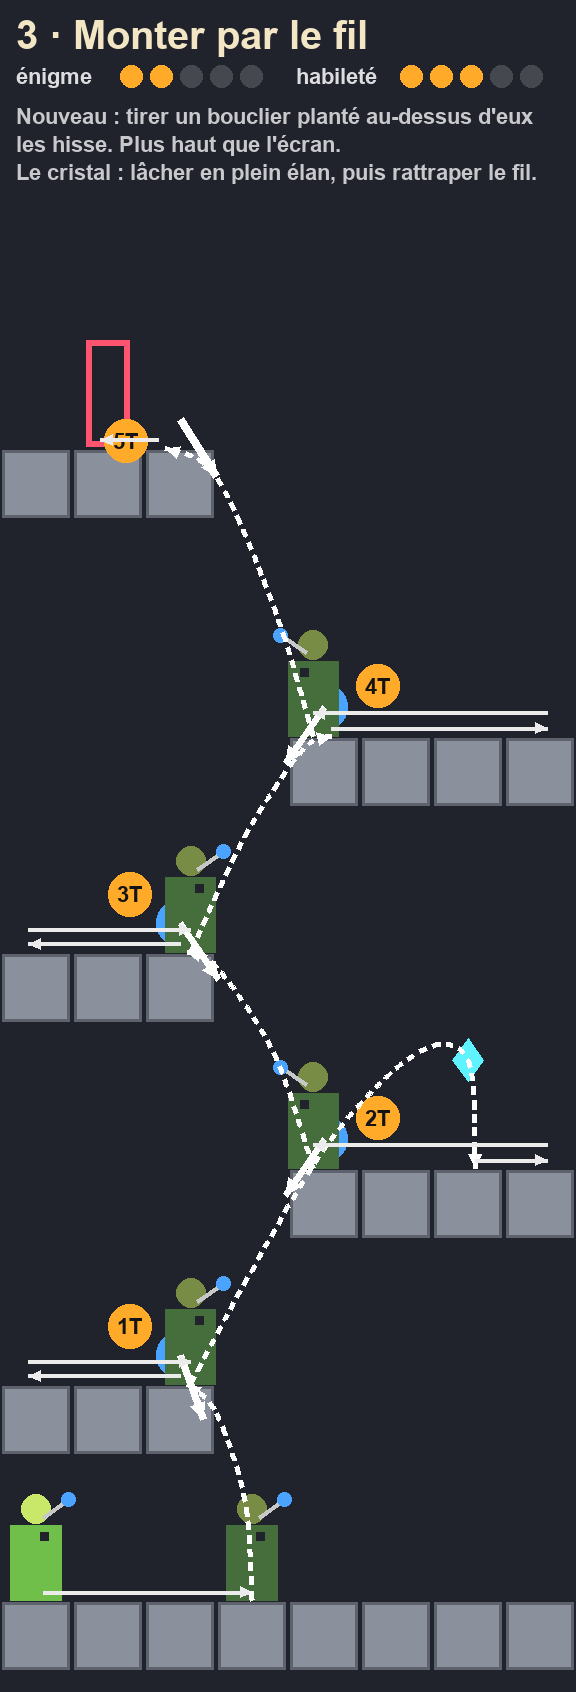
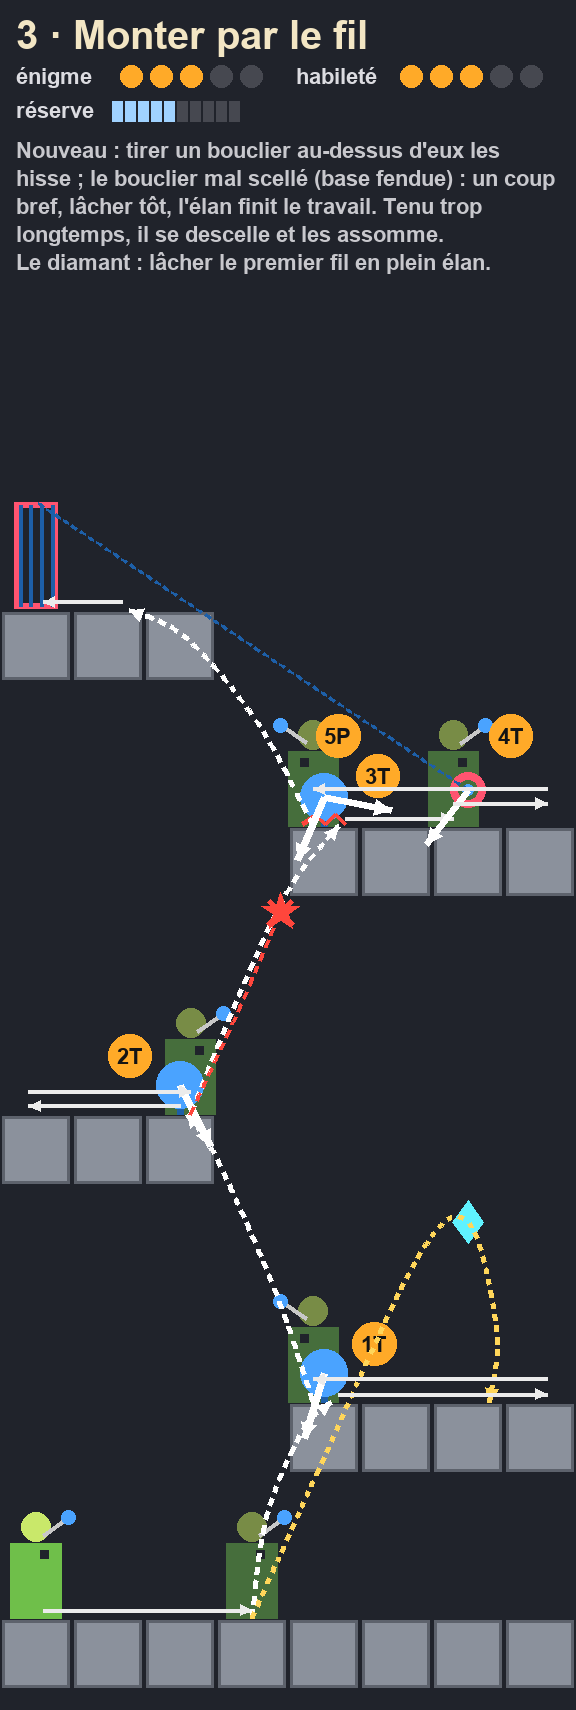
Région 1 en blocs, version 2 : 15 niveaux plus difficiles, aux nouvelles règles (réserve, mal scellés, diamant facultatif, la porte à ouvrir)

diff --git a/index.html b/index.html
@@ -6,4 +6,4 @@ h2{font-size:15px;font-weight:600;margin:0;padding:14px 16px 8px}img{display:blo
 section{border-top:1px solid #3a2420}nav{display:flex;flex-wrap:wrap;gap:6px;padding:0 16px 12px}nav a{color:#140c0c;background:#f3e6c4;border-radius:6px;padding:6px 10px;text-decoration:none;font-weight:700}
 </style></head><body><header><h1>Rubble · le niveau 1 en maquettes</h1>
 <p>Des captures imaginaires de l'écran du niveau 1, faites par le modèle d'images (gpt-image-2.5-sunburst), pour trouver l'intégration. 1 à 10 : dix directions artistiques libres. 11 à 16 : composées avec NOS sprites et assets, six façons de les intégrer. Réponds par numéros : ce qu'on copiera.</p></header>
-<p><a style="color:#f3e6c4;font-weight:700" href="niveaux-blocs/">→ Région 1 : les 12 niveaux en blocs (concept et plaisir, notes énigme / habileté)</a></p><p><a style="color:#f3e6c4;font-weight:700" href="force/">→ La force du sceptre (la salle du vol, en blocs) : 4 choix filmés</a></p><p><a style="color:#f3e6c4;font-weight:700" href="effets/">→ Plus de dynamisme, plus d'urgence : 7 choix filmés</a></p><p><a style="color:#f3e6c4;font-weight:700" href="icone/">→ L'icône de l'application (la dalle de l'iPhone) : 5 choix</a></p><p><a style="color:#f3e6c4;font-weight:700" href="physique/">→ La salle d'essai physique (jouable) : l'écroulement, les appuis qui s'usent</a></p><p><a style="color:#f3e6c4;font-weight:700" href="accueil/">→ Le nouvel écran d'accueil (4 moments, à choisir)</a></p><p><a style="color:#f3e6c4;font-weight:700" href="region1/">→ Le Champ : les 18 cartes brutes et l'univers de règles</a></p><p><a style="color:#f3e6c4;font-weight:700" href="niveau1/">→ Le niveau 1 assemblé</a></p><p><a style="color:#f3e6c4;font-weight:700" href="marche/">→ Le nouveau sprite et sa marche (choix : écran 10, sprite 9)</a></p><nav><a href="#m1">1</a><a href="#m2">2</a><a href="#m3">3</a><a href="#m4">4</a><a href="#m5">5</a><a href="#m6">6</a><a href="#m7">7</a><a href="#m8">8</a><a href="#m9">9</a><a href="#m10">10</a><a href="#m11">11</a><a href="#m12">12</a><a href="#m13">13</a><a href="#m14">14</a><a href="#m15">15</a><a href="#m16">16</a></nav><section id="m1"><h2>1 · Pixel art aux gros pixels : blocs nets cernés de noir, couleurs franches.</h2><img src="images/01-blocs-nets.jpg" loading="lazy" alt="maquette 1"></section><section id="m2"><h2>2 · Pixel art peint : le fond dans la brume dorée, le premier plan aux arêtes éclairées.</h2><img src="images/02-brume-peinte.jpg" loading="lazy" alt="maquette 2"></section><section id="m3"><h2>3 · Contre-jour : ciel éblouissant, premier plan en silhouettes, le jeu en couleurs.</h2><img src="images/03-contre-jour.jpg" loading="lazy" alt="maquette 3"></section><section id="m4"><h2>4 · Mignon et lumineux : formes rondes, couleurs saturées et chaudes.</h2><img src="images/04-mignon-lumineux.jpg" loading="lazy" alt="maquette 4"></section><section id="m5"><h2>5 · Bande dessinée encrée, dans l&#x27;esprit des orcs de Brett Bean.</h2><img src="images/05-bd-encree.jpg" loading="lazy" alt="maquette 5"></section><section id="m6"><h2>6 · Grand 16 bits des années 90 : plans en parallaxe qui pâlissent au loin.</h2><img src="images/06-seize-bits.jpg" loading="lazy" alt="maquette 6"></section><section id="m7"><h2>7 · La même scène à l&#x27;aube : lumière froide, terre chaude qui ressort.</h2><img src="images/07-aube-froide.jpg" loading="lazy" alt="maquette 7"></section><section id="m8"><h2>8 · Minimal et graphique : formes simples, très peu de détails.</h2><img src="images/08-minimal.jpg" loading="lazy" alt="maquette 8"></section><section id="m9"><h2>9 · Rétro 8 bits : très gros pixels, palette limitée.</h2><img src="images/09-huit-bits.jpg" loading="lazy" alt="maquette 9"></section><section id="m10"><h2>10 · Diorama éclairé : épaisseur des terrasses, ombres portées, fond flou.</h2><img src="images/10-diorama.jpg" loading="lazy" alt="maquette 10"></section><section id="m11"><h2>11 · NOS assets, intégration libre (le modèle choisit).</h2><img src="images/11-assets-libre.jpg" loading="lazy" alt="maquette 11"></section><section id="m12"><h2>12 · NOS assets, le fond dans la brume dorée, liseré de lumière sur le jeu.</h2><img src="images/12-assets-brume.jpg" loading="lazy" alt="maquette 12"></section><section id="m13"><h2>13 · NOS assets, ciel clair, corniches sombres à l&#x27;arête éclairée.</h2><img src="images/13-assets-contre-jour.jpg" loading="lazy" alt="maquette 13"></section><section id="m14"><h2>14 · NOS assets, encore plus gros (6 cases de large), fond calme.</h2><img src="images/14-assets-gros.jpg" loading="lazy" alt="maquette 14"></section><section id="m15"><h2>15 · NOS assets, chaque élément du jeu cerné de noir épais, fond plus pâle.</h2><img src="images/15-assets-cernes.jpg" loading="lazy" alt="maquette 15"></section><section id="m16"><h2>16 · NOS assets, ombres portées sous les corniches, vignette sur les bords.</h2><img src="images/16-assets-ombres.jpg" loading="lazy" alt="maquette 16"></section></body></html>
+<p><a style="color:#f3e6c4;font-weight:700" href="niveaux-blocs/">→ Région 1 : les 15 niveaux en blocs, version 2 plus difficile (réserve, mal scellés, diamant facultatif)</a></p><p><a style="color:#f3e6c4;font-weight:700" href="force/">→ La force du sceptre (la salle du vol, en blocs) : 4 choix filmés</a></p><p><a style="color:#f3e6c4;font-weight:700" href="effets/">→ Plus de dynamisme, plus d'urgence : 7 choix filmés</a></p><p><a style="color:#f3e6c4;font-weight:700" href="icone/">→ L'icône de l'application (la dalle de l'iPhone) : 5 choix</a></p><p><a style="color:#f3e6c4;font-weight:700" href="physique/">→ La salle d'essai physique (jouable) : l'écroulement, les appuis qui s'usent</a></p><p><a style="color:#f3e6c4;font-weight:700" href="accueil/">→ Le nouvel écran d'accueil (4 moments, à choisir)</a></p><p><a style="color:#f3e6c4;font-weight:700" href="region1/">→ Le Champ : les 18 cartes brutes et l'univers de règles</a></p><p><a style="color:#f3e6c4;font-weight:700" href="niveau1/">→ Le niveau 1 assemblé</a></p><p><a style="color:#f3e6c4;font-weight:700" href="marche/">→ Le nouveau sprite et sa marche (choix : écran 10, sprite 9)</a></p><nav><a href="#m1">1</a><a href="#m2">2</a><a href="#m3">3</a><a href="#m4">4</a><a href="#m5">5</a><a href="#m6">6</a><a href="#m7">7</a><a href="#m8">8</a><a href="#m9">9</a><a href="#m10">10</a><a href="#m11">11</a><a href="#m12">12</a><a href="#m13">13</a><a href="#m14">14</a><a href="#m15">15</a><a href="#m16">16</a></nav><section id="m1"><h2>1 · Pixel art aux gros pixels : blocs nets cernés de noir, couleurs franches.</h2><img src="images/01-blocs-nets.jpg" loading="lazy" alt="maquette 1"></section><section id="m2"><h2>2 · Pixel art peint : le fond dans la brume dorée, le premier plan aux arêtes éclairées.</h2><img src="images/02-brume-peinte.jpg" loading="lazy" alt="maquette 2"></section><section id="m3"><h2>3 · Contre-jour : ciel éblouissant, premier plan en silhouettes, le jeu en couleurs.</h2><img src="images/03-contre-jour.jpg" loading="lazy" alt="maquette 3"></section><section id="m4"><h2>4 · Mignon et lumineux : formes rondes, couleurs saturées et chaudes.</h2><img src="images/04-mignon-lumineux.jpg" loading="lazy" alt="maquette 4"></section><section id="m5"><h2>5 · Bande dessinée encrée, dans l&#x27;esprit des orcs de Brett Bean.</h2><img src="images/05-bd-encree.jpg" loading="lazy" alt="maquette 5"></section><section id="m6"><h2>6 · Grand 16 bits des années 90 : plans en parallaxe qui pâlissent au loin.</h2><img src="images/06-seize-bits.jpg" loading="lazy" alt="maquette 6"></section><section id="m7"><h2>7 · La même scène à l&#x27;aube : lumière froide, terre chaude qui ressort.</h2><img src="images/07-aube-froide.jpg" loading="lazy" alt="maquette 7"></section><section id="m8"><h2>8 · Minimal et graphique : formes simples, très peu de détails.</h2><img src="images/08-minimal.jpg" loading="lazy" alt="maquette 8"></section><section id="m9"><h2>9 · Rétro 8 bits : très gros pixels, palette limitée.</h2><img src="images/09-huit-bits.jpg" loading="lazy" alt="maquette 9"></section><section id="m10"><h2>10 · Diorama éclairé : épaisseur des terrasses, ombres portées, fond flou.</h2><img src="images/10-diorama.jpg" loading="lazy" alt="maquette 10"></section><section id="m11"><h2>11 · NOS assets, intégration libre (le modèle choisit).</h2><img src="images/11-assets-libre.jpg" loading="lazy" alt="maquette 11"></section><section id="m12"><h2>12 · NOS assets, le fond dans la brume dorée, liseré de lumière sur le jeu.</h2><img src="images/12-assets-brume.jpg" loading="lazy" alt="maquette 12"></section><section id="m13"><h2>13 · NOS assets, ciel clair, corniches sombres à l&#x27;arête éclairée.</h2><img src="images/13-assets-contre-jour.jpg" loading="lazy" alt="maquette 13"></section><section id="m14"><h2>14 · NOS assets, encore plus gros (6 cases de large), fond calme.</h2><img src="images/14-assets-gros.jpg" loading="lazy" alt="maquette 14"></section><section id="m15"><h2>15 · NOS assets, chaque élément du jeu cerné de noir épais, fond plus pâle.</h2><img src="images/15-assets-cernes.jpg" loading="lazy" alt="maquette 15"></section><section id="m16"><h2>16 · NOS assets, ombres portées sous les corniches, vignette sur les bords.</h2><img src="images/16-assets-ombres.jpg" loading="lazy" alt="maquette 16"></section></body></html>

diff --git a/niveaux-blocs/index.html b/niveaux-blocs/index.html
@@ -5,10 +5,11 @@ main{max-width:620px;margin:0 auto;padding:16px} h1{font-size:24px;margin:8px 0}
 section{margin:22px 0} nav{position:sticky;top:0;background:#16181e;padding:8px 0;display:flex;flex-wrap:wrap;gap:6px;z-index:2}
 nav a{color:#16181e;background:#ffaa28;border-radius:14px;padding:3px 10px;text-decoration:none;font-weight:700} .petit{color:#a8a39a;font-size:14px}
 </style></head><body><main>
-<h1>Région 1 · les 12 niveaux en blocs</h1>
-<p>Chaque niveau en formes simples : la carte, le chemin des frères, les gestes du sceptre numérotés (T tirer, P pousser, J jeter la lance), les vols en pointillés, une erreur en rouge. Deux notes sur 5 : l'énigme et l'habileté.</p>
-<p><b>Ta réponse, par numéros :</b> ceux qui respectent le concept et sont amusants, ceux à refaire (et pourquoi, si tu veux).</p>
-<p class="petit">Dessins d'intention, pas encore joués : chaque niveau gardé sera construit en blocs dans le vrai moteur et prouvé jouable avant tout habillage. Force du sceptre supposée ×2 (la page de la force attend ton numéro).</p>
+<h1>Région 1 · les 15 niveaux en blocs (version 2, plus difficile)</h1>
+<p>Aux nouvelles règles : la réserve du sceptre (la jauge bleue de chaque niveau, sans recharge), les boucliers mal scellés qui assomment si on les tire trop longtemps, le diamant facultatif hors du chemin (en jaune), ce qui ouvre la porte (l'anneau rouge relié à la porte, mécanisme encore à choisir).</p>
+<p>Gestes numérotés : T tirer, P pousser, J jeter la lance. En rouge, l'erreur ; l'étoile rouge, les frères assommés. Notes sur 5 : l'énigme et l'habileté.</p>
+<p><b>Ta réponse, par numéros :</b> ceux qui respectent le concept et sont amusants, ceux à refaire.</p>
+<p class="petit">Dessins d'intention, pas encore joués : chaque niveau gardé sera construit en blocs dans le vrai moteur et prouvé jouable. Force du sceptre supposée ×2.</p>
 <img src="legende.png" alt="légende">
-<nav><a href="#n1">1</a><a href="#n2">2</a><a href="#n3">3</a><a href="#n4">4</a><a href="#n5">5</a><a href="#n6">6</a><a href="#n7">7</a><a href="#n8">8</a><a href="#n9">9</a><a href="#n10">10</a><a href="#n11">11</a><a href="#n12">12</a></nav><section id="n1"><img src="niveau-01.png" alt="niveau 1" loading="lazy"></section><section id="n2"><img src="niveau-02.png" alt="niveau 2" loading="lazy"></section><section id="n3"><img src="niveau-03.png" alt="niveau 3" loading="lazy"></section><section id="n4"><img src="niveau-04.png" alt="niveau 4" loading="lazy"></section><section id="n5"><img src="niveau-05.png" alt="niveau 5" loading="lazy"></section><section id="n6"><img src="niveau-06.png" alt="niveau 6" loading="lazy"></section><section id="n7"><img src="niveau-07.png" alt="niveau 7" loading="lazy"></section><section id="n8"><img src="niveau-08.png" alt="niveau 8" loading="lazy"></section><section id="n9"><img src="niveau-09.png" alt="niveau 9" loading="lazy"></section><section id="n10"><img src="niveau-10.png" alt="niveau 10" loading="lazy"></section><section id="n11"><img src="niveau-11.png" alt="niveau 11" loading="lazy"></section><section id="n12"><img src="niveau-12.png" alt="niveau 12" loading="lazy"></section>
+<nav><a href="#n1">1</a><a href="#n2">2</a><a href="#n3">3</a><a href="#n4">4</a><a href="#n5">5</a><a href="#n6">6</a><a href="#n7">7</a><a href="#n8">8</a><a href="#n9">9</a><a href="#n10">10</a><a href="#n11">11</a><a href="#n12">12</a><a href="#n13">13</a><a href="#n14">14</a><a href="#n15">15</a></nav><section id="n1"><img src="niveau-01.png" alt="niveau 1" loading="lazy"></section><section id="n2"><img src="niveau-02.png" alt="niveau 2" loading="lazy"></section><section id="n3"><img src="niveau-03.png" alt="niveau 3" loading="lazy"></section><section id="n4"><img src="niveau-04.png" alt="niveau 4" loading="lazy"></section><section id="n5"><img src="niveau-05.png" alt="niveau 5" loading="lazy"></section><section id="n6"><img src="niveau-06.png" alt="niveau 6" loading="lazy"></section><section id="n7"><img src="niveau-07.png" alt="niveau 7" loading="lazy"></section><section id="n8"><img src="niveau-08.png" alt="niveau 8" loading="lazy"></section><section id="n9"><img src="niveau-09.png" alt="niveau 9" loading="lazy"></section><section id="n10"><img src="niveau-10.png" alt="niveau 10" loading="lazy"></section><section id="n11"><img src="niveau-11.png" alt="niveau 11" loading="lazy"></section><section id="n12"><img src="niveau-12.png" alt="niveau 12" loading="lazy"></section><section id="n13"><img src="niveau-13.png" alt="niveau 13" loading="lazy"></section><section id="n14"><img src="niveau-14.png" alt="niveau 14" loading="lazy"></section><section id="n15"><img src="niveau-15.png" alt="niveau 15" loading="lazy"></section>
 </main></body></html>
